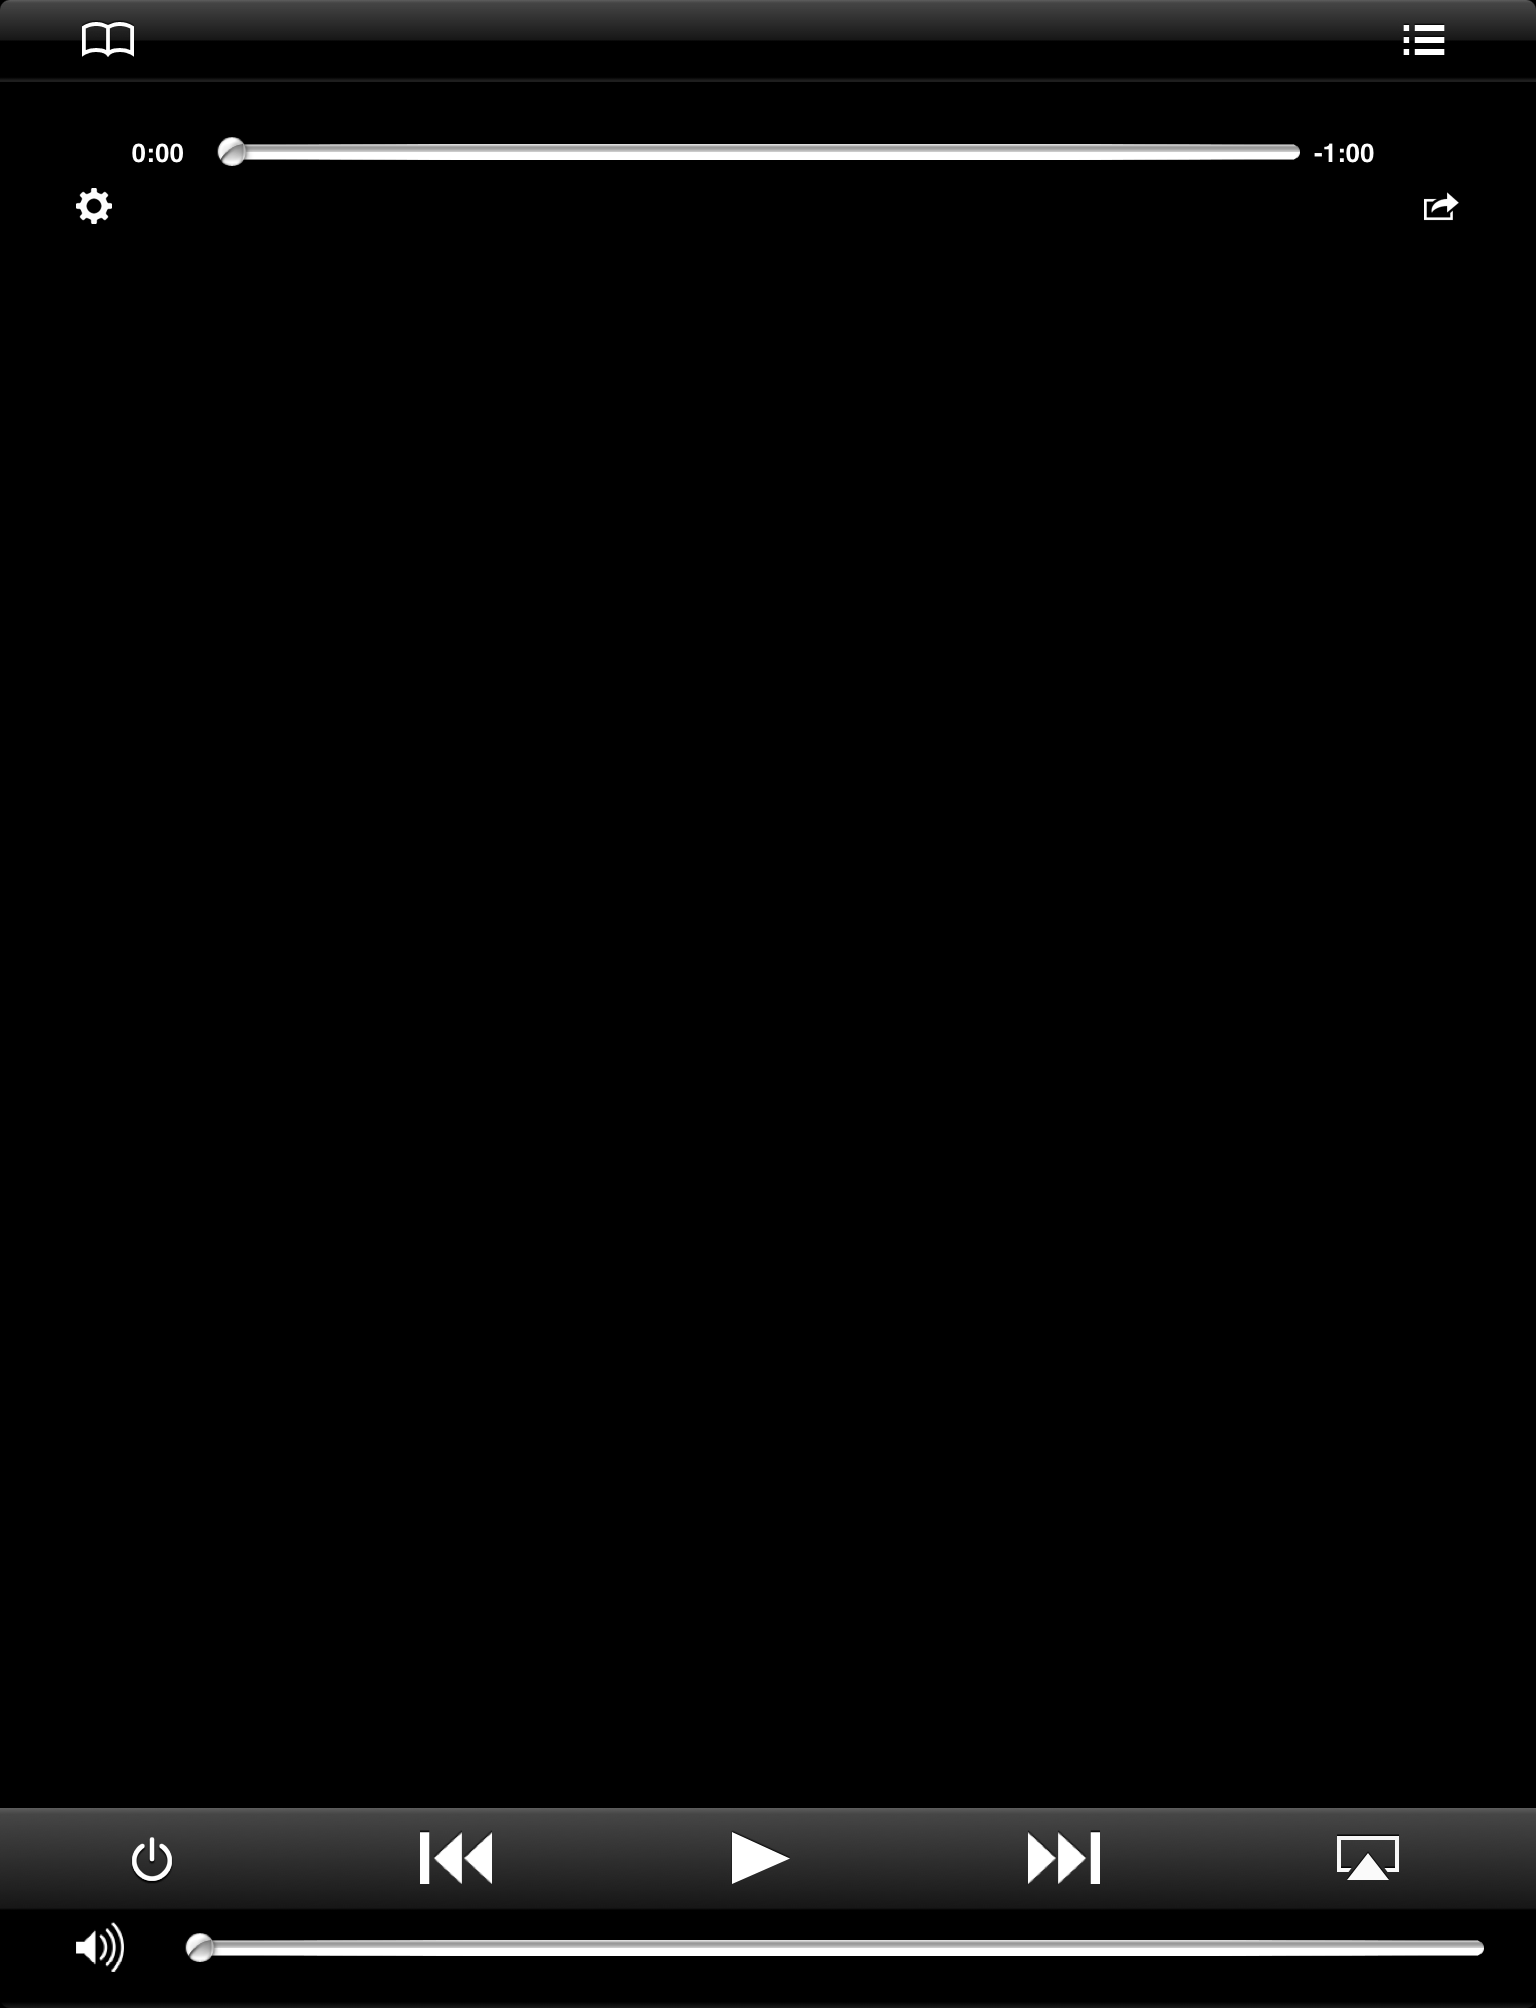
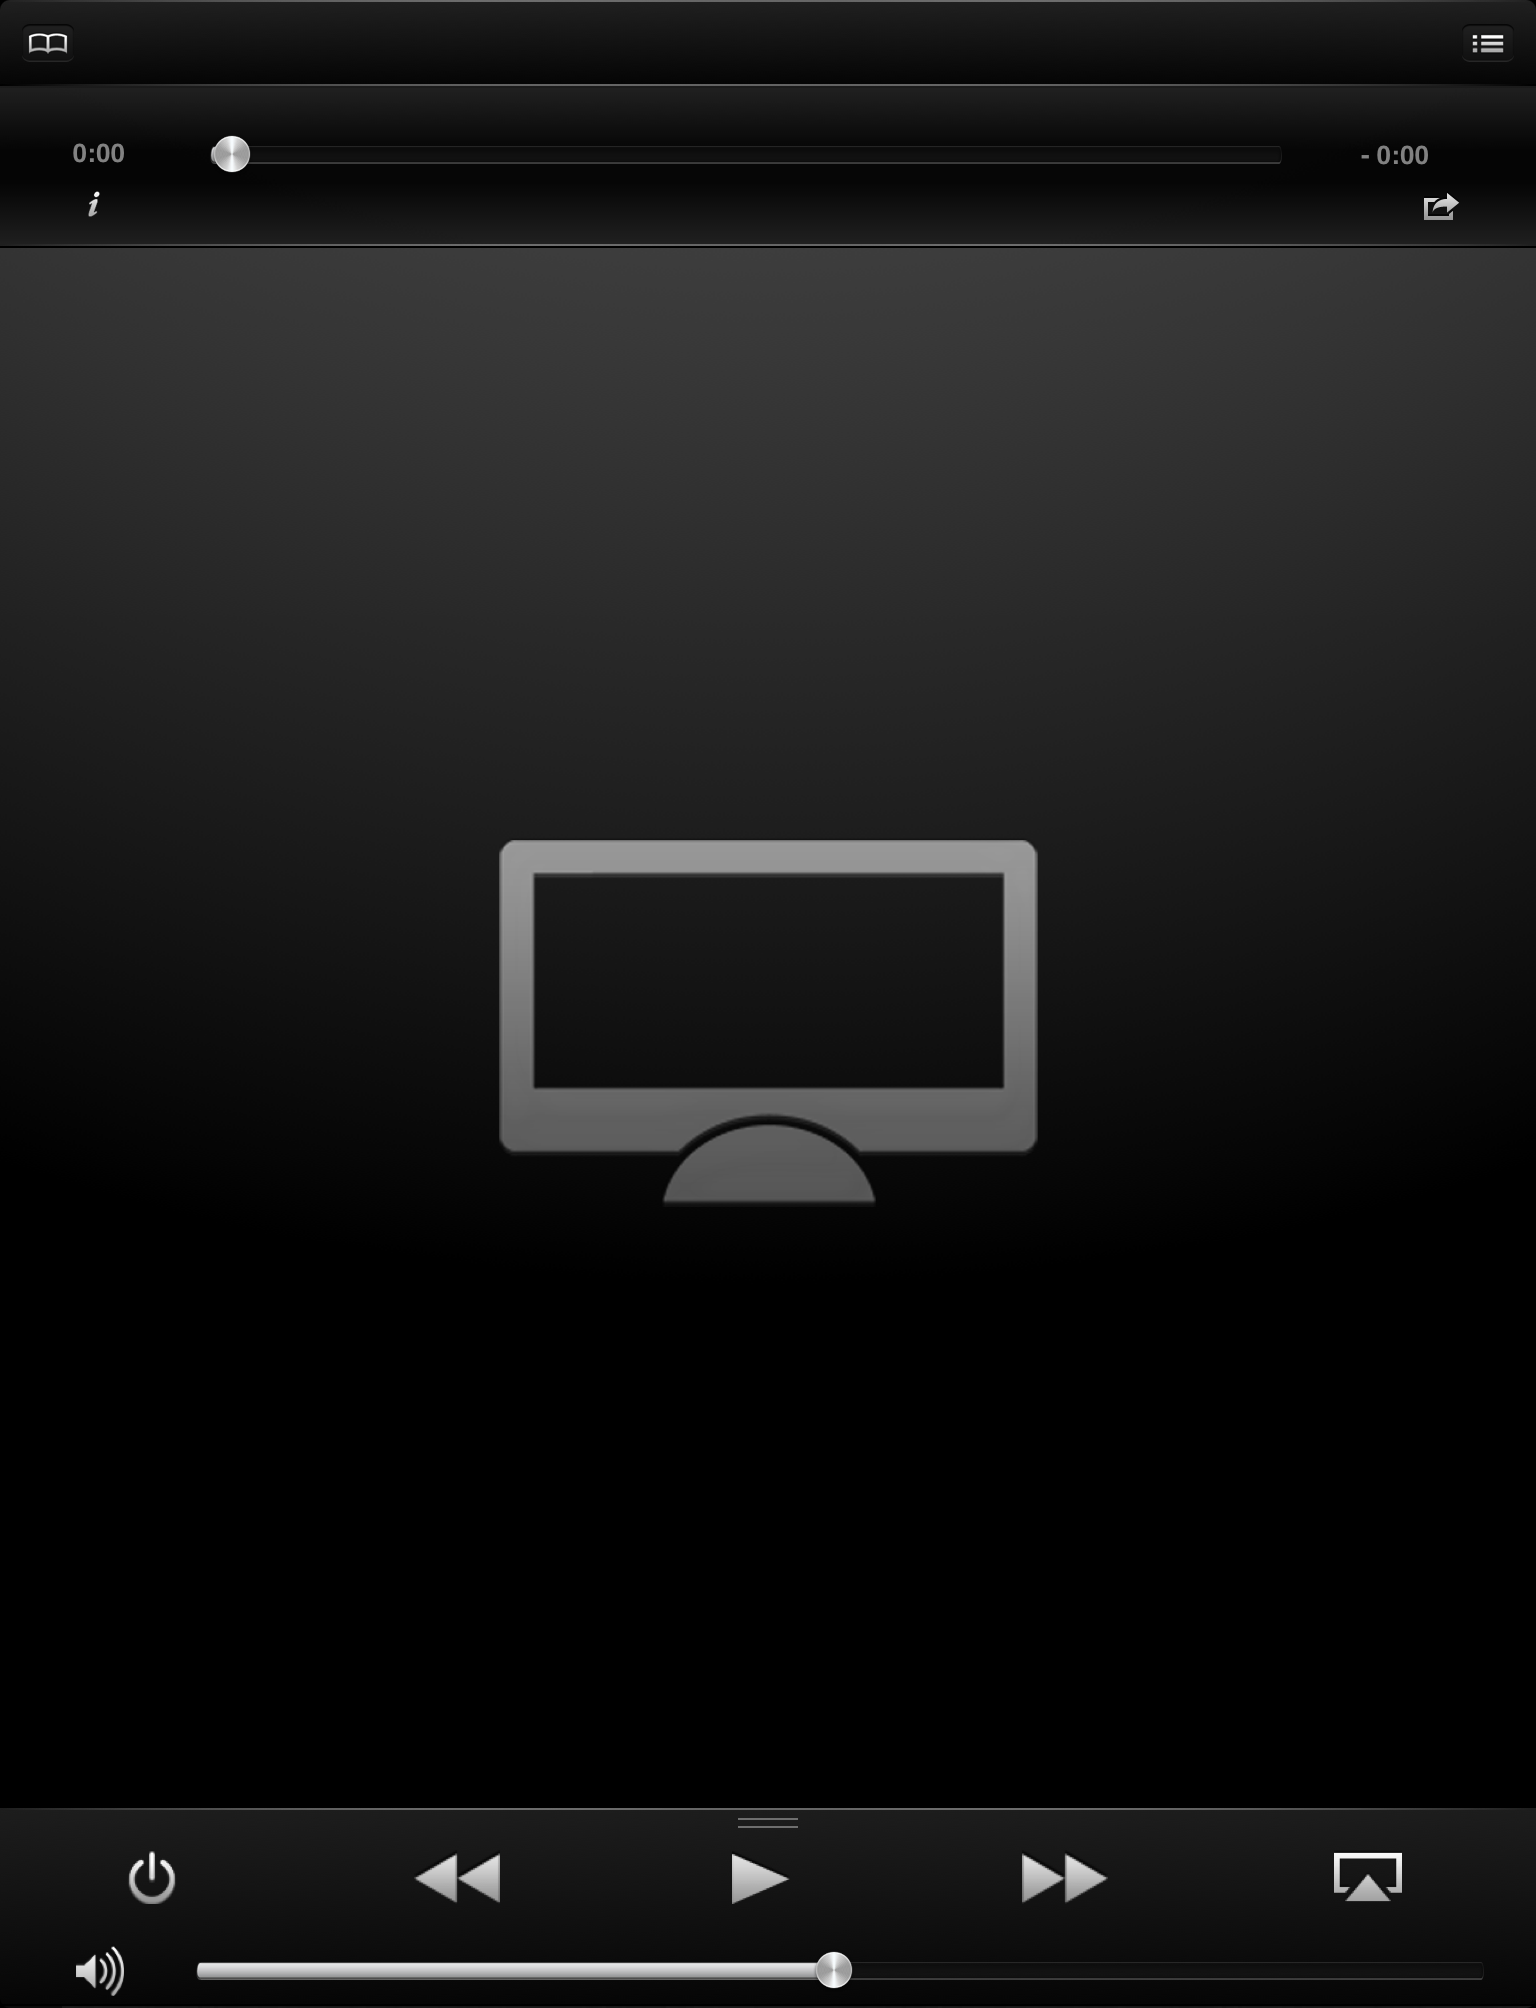
fixed ipad version

diff --git a/www/tablet.html b/www/tablet.html
@@ -15,8 +15,10 @@
 	<script type="text/javascript" charset="utf-8" src="cordova-2.2.0.js"></script>
 	<script type="text/javascript" charset="utf-8" src="ChildBrowser.js"></script>
 	<script type="text/javascript" charset="utf-8" src="ActionSheet.js"></script>
-	<script type="text/javascript" src="gestures.js"></script>
-	<script type="text/javascript" src="script.js?r=1"></script>
+	<script type="text/javascript" charset="utf-8" src="taptoscroll.js"></script>
+	<script type="text/javascript" charset="utf-8" src="applicationPreferences.js"></script>
+	<script type="text/javascript" src="gestures.js?r=1"></script>
+	<script type="text/javascript" src="script.js?r=5"></script>
 
 	<link rel="stylesheet" href="style.css" />
 	<link rel="stylesheet" href="tablet.css" />
@@ -26,12 +28,14 @@
 <body onload="onBodyLoad()">
 
 	<div id="top">
+		<div class="gradientBorder top"></div>
 		<div class="left control" id="btnCommands"></div>
 		<div class="head" id="header">
 			<p class="bold" id="txtRoom">&nbsp;</p>
 			<p class="grey" id="txtDevice">&nbsp;</p>
 		</div>
 		<div class="right control" id="btnTitles"></div>
+		<div class="gradientBorder bottom"></div>
 	</div>
 
 	<div id="container">
@@ -49,15 +53,10 @@
 
 						<div class="left" id="btnConfig" ></div>
 						<div class="right" id="btnTransfer"></div>
-
 					</div>
 				</div>
+				<div class="gradientBorder bottom" style="top: 79px"></div>
 				<div id="bgPic" class="noart">
-					<form style="" id="frmSettings" class="frmSettings">
-						<input type="text" id="gestureXML" value="" placeholder="gesturePad.xml Web Location" /> <br />
-						<input type="text" id="channelXML" value="" placeholder="channelList.xml Web Location" />
-						<a href="#" class="redButton" id="saveSettings">Save Changes</a>
-					</form>
 				</div>
 				<div id="gestureCallback">
 
@@ -73,34 +72,37 @@
 	
 
 	<div id="bottom">
-		<div class="gradientBorder top" style="margin-bottom: 10px;"></div>
-		<div class="grabber">
-			<span class="bars"></span>
-		</div>
-		<div class="five control" id="btnPower" ></div>
-		<div class="five control" id="btnRewind" ></div>
-		<div class="five control" id="btnPlay" ></div>
-		<div class="five control" id="btnForward" ></div>
-		<div class="five control" id="btnRoom" ></div>
-		<div style="clear:both">
-
-		<div class="volume control" id="btnMute" ></div>
-		<div id="VolumeContainer" class="seekbarContainer" style="padding-top: 14px;float: left;width: 83%;">
-			
-			<div class="slider" id="VolumeSlider" >
-				<div class="sliderh" id="VolumeSliderh" ></div>        
-				<div class="seekto" id="VolumeSliderSeek" ></div>
+		<div id="bottomGrabber">
+			<div class="gradientBorder top" style="margin-bottom: 10px;"></div>
+			<div class="grabber">
+				<span class="bars"></span>
 			</div>
-
+			<div class="five control" id="btnPower" ></div>
+			<div class="five control" id="btnRewind" ></div>
+			<div class="five control" id="btnPlay" ></div>
+			<div class="five control" id="btnForward" ></div>
+			<div class="five control" id="btnRoom" ></div>
 		</div>
+		<div id="overallVolumeContainer">
+			<div class="volume control" id="btnMute" ></div>
+			<div id="VolumeContainer" class="seekbarContainer" style="padding-top: 14px;float: left;width: 83%;">
+				<div class="slider" id="VolumeSlider" >
+					<div class="sliderh" id="VolumeSliderh" ></div>        
+					<div class="seekto" id="VolumeSliderSeek" ></div>
+				</div>
+			</div>
 		</div>
 	</div>
 
-	<form style="display:none;" id="frmNumPad" onsubmit="" >
-		<input type="tel" id="NumPad" value="">
-		<input type="submit" value="OK" />  
-	</form>
-
+	<div id="browser">
+		<p id="bottomText"><span>&nbsp;</span></p>
+		<div id="boxCoverBack">&crarr;</div>
+		
+		<div id="boxCoverContainer">
+			<div id="covers"></div>
+		</div>
+	</div>
+		
 
 	<div style="display:none" id="tmpSpinner">
 	  <div class="spincontainer">
@@ -110,17 +112,19 @@
 	  </div>
 	</div>
 	<div style="display:none" id='Filter'>
+		<div class="gradientBorder top"></div>
 		<div class="searchContainer">
 			<form id="searchform" class="searchform">
 				<span class="icon-search"></span>
-				<label>
-					<input type="text" class="searcher" placeholder="Filter Items...">
-				</label>
+					<input id="searchbox" type="text" class="searcher" placeholder="Filter List">
+				<span class="icon-clear" id="searchClear" style="display: none;"></span>
 			</form>
-			
-			<div class="mce right emoji" id="btnSortDate">📅</div>
 		</div>
 	</div>
+
+	<p id="hud"></p>
+
+  
 </body>
 
 </html>

diff --git a/www/script.js b/www/script.js
@@ -1920,8 +1920,8 @@ function updateStatus() {
 	var device = getCurrentDevice();
 	var room = getCurrentRoom();
 
-	//$("#txtDevice").text( device.name );
-	//$("#txtRoom").text( room.name );
+	$("#txtDevice").text( device.name );
+	$("#txtRoom").text( room.name );
 	
 	if (room.IR == true) {
 		$("#overallVolumeContainer").show();
